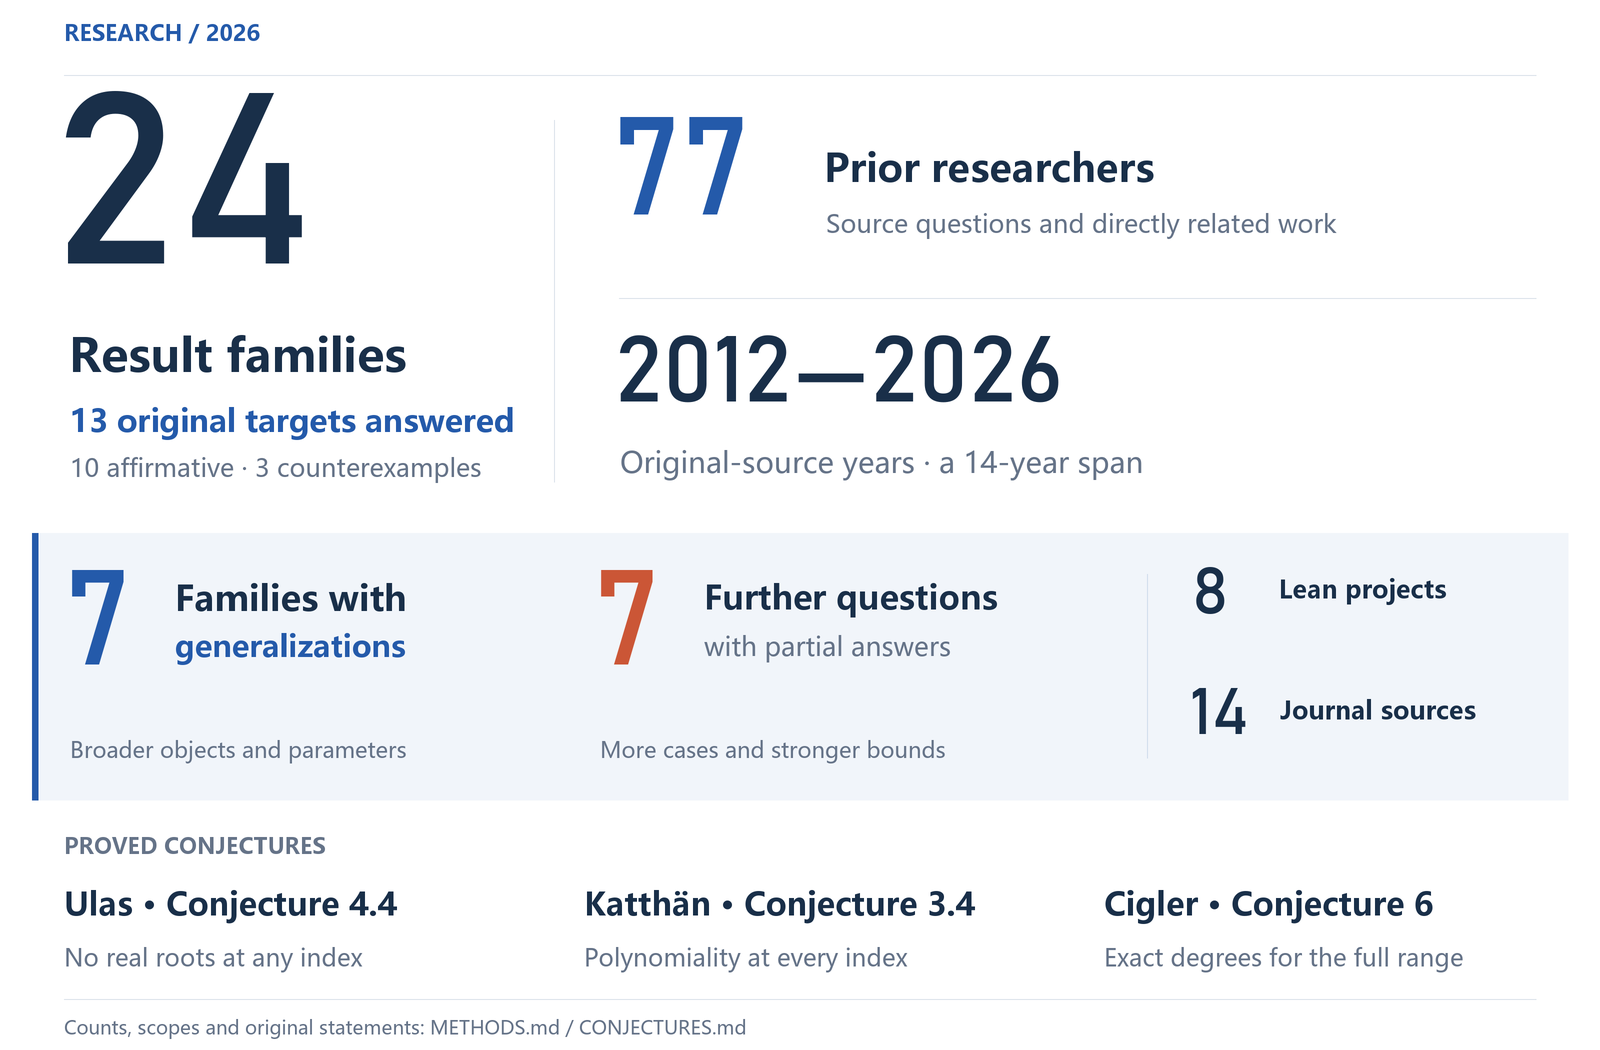
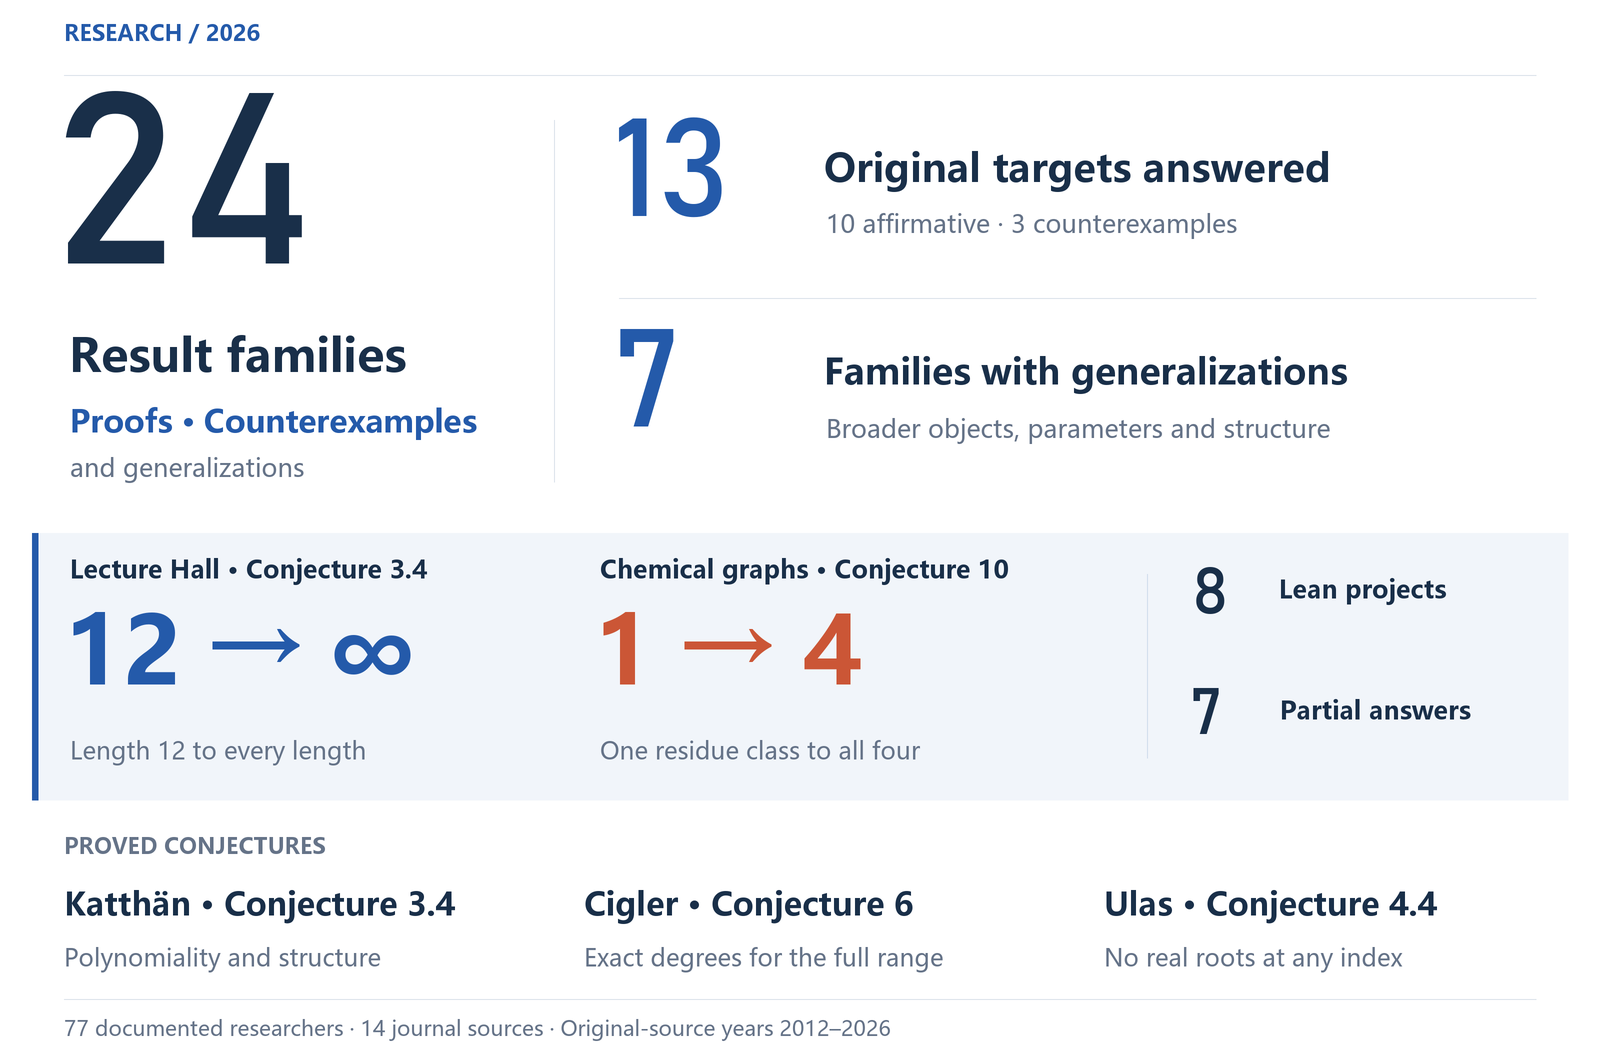
Lead the portfolio with general results and concrete contribution comparisons

diff --git a/README.md b/README.md
@@ -10,15 +10,27 @@
 
 ---
 
-我在AI辅助下，证明了**Ulas猜想4.4、Katthän猜想3.4、Cigler文中猜想6**等，并给出反例、分类和进一步的推广。现已按核心问题整理为**24个成果组**。
+我在AI辅助下，证明了**Katthän的Lecture Hall多项式性猜想（猜想3.4）、Cigler文中猜想6**等，并给出反例、分类和推广。现已整理为**24个成果组**。
 
-![24组数学成果；13项原题得到解答；7组推广成果；另7项原题获部分解答；8组含Lean形式化；14项原题发表于期刊；77位已列前人研究者；原题年代2012—2026。](assets/research-overview.zh.png)
+![24组数学成果；13项原题得到解答；7组推广成果；Lecture Hall从验证到长度12发展为任意长度的证明；化学图从一个模4余类覆盖全部四类；8组含Lean形式化；另7项原题获部分解答。研究背景：77位已列相关研究者、14项期刊原题、原题年代2012—2026。](assets/research-overview.zh.png)
 
 **涉及领域：** 极值图论 · 代数组合 · 交换代数 · 离散几何 · 实根多项式 · 枚举几何 · 渐近分析 · 形式化数学
 
 **方法与工具：** 行列式与生成函数 · SAGBI基与toric退化 · 根交错与正性 · 精确证书 · Lean 4 / mathlib · Python / SymPy · C++17
 
 [原论文中的猜想编号与本研究结论](CONJECTURES.md) · [77位研究者及其工作](PRIOR_RESEARCH.md) · [统计说明](METHODS.md)
+
+## 代表结果
+
+| 原题 | 已有研究 | 本研究的结果 |
+| --- | --- | --- |
+| **Lecture Hall · Katthän猜想3.4（2018）** | 原文计算验证到长度12 | **证明任意长度成立**；进一步得到系数公式和代数结构定理 |
+| **Catalan幂Hankel · Cigler文中猜想6（2023）** | 文献给出若干有限参数特例 | **覆盖两个参数的完整有效范围**，证明全部j≥1、k≥2j−1的指定余类精确次数公式 |
+| **K6链 · Furmańczyk等猜想2（2025）** | 原文提出统一22色上界 | **450顶点反例＋全家族23色锐界**；长链的精确答案为23 |
+| **Howroyd计数猜想（2018）** | 三个模3余类中的一个已有证明 | **补齐另外两个余类，并完整分类27集分支**；与已知结果合并覆盖三类 |
+| **化学图 · Knor等猜想10（2024）** | 后续论文覆盖一个模4余类 | **覆盖全部四类、所有n≥7**，同时证明每种极值分布都可实现 |
+| **Peak多项式 · Billey等猜想6.6** | 部分区间和系数性质已有结果 | **补齐剩余区间的符号论证**，完成指定的最后实根结论 |
+| **Fence · Elizalde等猜想5.4(b)** | 原题预测轨道平均值恒定 | **构造237步完整轨道，否定该条断言**；反例已由Lean内核核验 |
 
 ## 推广成果
 
@@ -31,17 +43,6 @@
 | [Hurwitz多项式](https://github.com/Aurantium-47/hurwitz-single-cycle-genera-two-three) | **从g=2扩展到g=3、4**，继续得到更一般情形的精细展开、根修正与定量界 |
 | [无限对数凹性](https://github.com/Aurantium-47/eventual-infinite-log-concavity) | **三项式→一般正系数多项式**：证明足够高次幂上的统一结论，并进一步细化参数增长情形 |
 | [Narayana格点和](https://github.com/Aurantium-47/narayana-polytope-counterexamples) | **两个反例→一般判据**：从否定实例进一步提炼出适用于更广对象的统一充分条件 |
-
-## 代表结果
-
-| 项目 | 已有研究 | 本研究的结果 |
-| --- | --- | --- |
-| **Howroyd · 2018年提出** | 三类余数情形中的一类已有证明 | **补齐另外两类，完成27集分支的完整分类**；与已知结果合并覆盖全部三类 |
-| **Katthän 猜想3.4 · 2018** | 原文计算验证到长度12 | **证明任意长度成立**，并继续发展出上述一组推广成果 |
-| **Knor等 · 猜想10** | 后续论文覆盖一个模4余类 | **覆盖全部四类、所有n≥7**，同时证明每种极值分布都可实现 |
-| **Billey等 · 猜想6.6** | 部分区间和系数性质已有结果 | **补齐剩余区间的符号论证**，完成指定的最后实根结论 |
-| **Fence · 猜想5.4(b)** | 原题预测轨道平均值恒定 | **构造237步完整轨道，否定原断言**；反例已由Lean内核核验 |
-| **K6链着色** | 原文提出统一22色上界 | **450顶点反例＋全家族23色锐界**，附1664万余条精确证书记录 |
 
 ## 论文出处
 
@@ -76,7 +77,7 @@
 | [Cigler猜想6 · Catalan幂Hankel次数](https://github.com/Aurantium-47/even-catalan-hankel-degrees) | 所有j≥1、k≥2j−1的两个指定余类，精确次数(2j−1)(k−j) | 证明与精确核查 |
 | [数值半群端点残差](https://github.com/Aurantium-47/numerical-semigroup-endpoint-residues) | 平移族最终仿射；显式斜率、修正项与有效阈值 | 证明与精确核查 |
 | [Billey等猜想6.6 · Peak最后实根](https://github.com/Aurantium-47/peak-polynomial-last-real-root) | 对任意可容许峰集，完成倒数第二峰之后整个实区间的符号与最后实根结论 | 证明与精确核查 |
-| [Karp二阶变换实根性](https://github.com/Aurantium-47/karp-order-two-real-rootedness) | 正、满支撑的二阶Pochhammer变换负实根性及残余根间距 | 已有相关公开证明；贡献对照中 |
+| [Karp二阶变换实根性](https://github.com/Aurantium-47/karp-order-two-real-rootedness) | 正、满支撑的二阶Pochhammer变换负实根性及残余根间距 | 不同证明路线；与先行成果的比较见专页 |
 | [Gap-five Gaussian商正性](https://github.com/Aurantium-47/gap-five-gaussian-quotients) | gap=5、k≥8、n≥2k：多项式性蕴含系数非负；与已知边界合并覆盖k≥5 | 证明与符号证书 |
 | [Hurwitz多项式与大亏格展开](https://github.com/Aurantium-47/hurwitz-single-cycle-genera-two-three) | g=2、3、4单周期全次数实根/交错；一般profile有效大亏格精细项 | 证明与精确核查 |
 | [最终无限对数凹性](https://github.com/Aurantium-47/eventual-infinite-log-concavity) | 固定严格正满支撑多项式的充分大整数幂无限对数凹；三项式与增长深度细化 | 证明与精确证书 |

diff --git a/README.en.md b/README.en.md
@@ -10,15 +10,27 @@
 
 ---
 
-With AI assistance, I have proved **Ulas’s Conjecture 4.4, Katthän’s Conjecture 3.4 and Conjecture 6 in Cigler’s paper**, alongside counterexamples, classifications and generalizations. The work is organized into **24 result families**.
+With AI assistance, I have proved **Katthän’s Lecture Hall polynomiality conjecture (Conjecture 3.4) and Conjecture 6 in Cigler’s paper**, alongside counterexamples, classifications and generalizations. The work is organized into **24 result families**.
 
-![24 result families; 13 original targets answered; 7 families with generalizations; 7 further questions with partial answers; 8 Lean projects; 14 journal sources; 77 documented prior researchers; original-source years 2012–2026.](assets/research-overview.en.png)
+![24 result families; 13 original targets answered; 7 families with generalizations; Lecture Hall: length 12 to every length; chemical graphs: one residue class to all four; 8 Lean projects; 7 further questions with partial answers. Background: 77 documented researchers, 14 journal sources, original-source years 2012–2026.](assets/research-overview.en.png)
 
 **Research areas:** extremal graph theory · algebraic combinatorics · commutative algebra · discrete geometry · real-rooted polynomials · enumerative geometry · asymptotic analysis · formalized mathematics
 
 **Methods and tools:** determinants and generating functions · SAGBI bases and toric degeneration · root interlacing and positivity · exact certificates · Lean 4 / mathlib · Python / SymPy · C++17
 
 [Original conjecture numbers and results](CONJECTURES.md) · [The 77 researchers and their work](PRIOR_RESEARCH.md) · [Statistical definitions](METHODS.md)
+
+## Selected results
+
+| Original target | Previous work | Result presented here |
+| --- | --- | --- |
+| **Lecture Hall · Katthän’s Conjecture 3.4 (2018)** | Computations through length 12 | **Polynomiality at every index**, followed by coefficient formulas and algebraic-structure theorems |
+| **Catalan-power Hankel determinants · Conjecture 6 in Cigler (2023)** | Several finite parameter specializations were known | **Exact degrees throughout the full stated two-parameter range**, for j≥1 and k≥2j−1 at the specified offsets |
+| **K6 clique chains · Conjecture 2 of Furmańczyk et al. (2025)** | A proposed uniform 22-colour bound | **A 450-vertex counterexample and sharp bound 23**, with equality for long chains |
+| **Howroyd’s counting conjecture (2018)** | One of three classes modulo three was settled | **The other two classes and a full classification of the 27-set branches** |
+| **Chemical graphs · Conjecture 10 of Knor et al. (2024)** | Later work covered one class modulo four | **All four classes for every n≥7**, with realizability |
+| **Peak polynomials · Conjecture 6.6 of Billey et al.** | Partial interval and coefficient results | **The remaining sign interval** for the specified last-real-root conclusion |
+| **Fence rowmotion · Conjecture 5.4(b) of Elizalde et al.** | A conjectured invariant orbit average | **A 237-step counterexample orbit**, kernel-checked in Lean |
 
 ## Extensions
 
@@ -31,17 +43,6 @@ With AI assistance, I have proved **Ulas’s Conjecture 4.4, Katthän’s Conjec
 | [Hurwitz polynomials](https://github.com/Aurantium-47/hurwitz-single-cycle-genera-two-three) | **Genus two to genera three and four**, followed by refined asymptotic expansions, root corrections and effective bounds |
 | [Infinite log-concavity](https://github.com/Aurantium-47/eventual-infinite-log-concavity) | **Trinomials to general strictly positive polynomials:** a sufficiently-high-power theorem and growing-depth refinements |
 | [Narayana lattice sums](https://github.com/Aurantium-47/narayana-polytope-counterexamples) | **Two counterexamples to a general criterion:** a sufficient condition covering a broader class of objects |
-
-## Selected results
-
-| Project | Previous work | Result presented here |
-| --- | --- | --- |
-| Howroyd, posed in 2018 | One residue class was settled | **The remaining two classes**, an explicit 27-set classification and a Lean proof |
-| Lecture Hall, posed in 2018 | Computations through length 12 | **Polynomiality at every index**, followed by further structural theorems |
-| Chemical graphs | Later work covered one class modulo four | **All four classes for every n ≥ 7**, with realizability and Lean formalization |
-| Peak polynomials | Partial interval and coefficient results | **The remaining sign interval** for the specified last-real-root conclusion |
-| Fence rowmotion | A conjectured invariant orbit average | **A 237-step counterexample orbit**, kernel-checked in Lean |
-| K6 clique chains | A proposed uniform 22-colour bound | **A 450-vertex counterexample and sharp bound 23**, with an exact rank certificate |
 
 ## Sources and artifacts
 
@@ -69,7 +70,7 @@ The [Lean collection](formalizations/README.md) contains 189 source files from e
 | [even-catalan-hankel-degrees](https://github.com/Aurantium-47/even-catalan-hankel-degrees) | Written proof / exact verification |
 | [numerical-semigroup-endpoint-residues](https://github.com/Aurantium-47/numerical-semigroup-endpoint-residues) | Written proof / exact verification |
 | [peak-polynomial-last-real-root](https://github.com/Aurantium-47/peak-polynomial-last-real-root) | Written proof / exact verification |
-| [karp-order-two-real-rootedness](https://github.com/Aurantium-47/karp-order-two-real-rootedness) | Literature comparison in progress |
+| [karp-order-two-real-rootedness](https://github.com/Aurantium-47/karp-order-two-real-rootedness) | Alternative proof route; comparison with the earlier submission documented |
 | [gap-five-gaussian-quotients](https://github.com/Aurantium-47/gap-five-gaussian-quotients) | Written proof / exact verification |
 | [hurwitz-single-cycle-genera-two-three](https://github.com/Aurantium-47/hurwitz-single-cycle-genera-two-three) | Written proof / exact verification |
 | [eventual-infinite-log-concavity](https://github.com/Aurantium-47/eventual-infinite-log-concavity) | Written proof / exact verification |

diff --git a/CONJECTURES.md b/CONJECTURES.md
@@ -4,9 +4,9 @@
 
 | 原文中的猜想 | 本研究给出的结果 | 原文与证明 |
 | --- | --- | --- |
-| **Ulas 猜想 4.4** | 证明指定Stern多项式族对所有自然数下标、所有实数变量严格为正，从而没有实根 | [Ulas原文，第16页](https://arxiv.org/pdf/1909.10844v1#page=16) · [证明与Lean源码](https://github.com/Aurantium-47/stern-polynomial-positivity) |
 | **Katthän 猜想 3.4** | 证明每个Lecture Hall递归有理函数都是多项式，覆盖任意长度；原文计算验证到12 | [Katthän原文，第4—5页](https://arxiv.org/pdf/1809.01377#page=4) · [证明与推广](https://github.com/Aurantium-47/lecture-hall-polynomiality) |
 | **Cigler文中猜想 6** | 对原文指定的两个余类，证明所有j≥1、k≥2j−1的精确次数公式；从有限特例推广到整个参数范围 | [Cigler原文，第4页，式(19)](https://arxiv.org/pdf/2308.07642v2#page=4) · [完整证明](https://github.com/Aurantium-47/even-catalan-hankel-degrees) |
+| **Ulas 猜想 4.4** | 证明指定Stern多项式族对所有自然数下标、所有实数变量严格为正，从而没有实根 | [Ulas原文，第16页](https://arxiv.org/pdf/1909.10844v1#page=16) · [证明与Lean源码](https://github.com/Aurantium-47/stern-polynomial-positivity) |
 | **Billey–Fahrbach–Talmage 猜想 6.6** | 证明指定最后实根结论，补齐剩余非整数区间的符号论证 | [原文，第19页](https://arxiv.org/pdf/1410.8506#page=19) · [证明及前人成果对照](https://github.com/Aurantium-47/peak-polynomial-last-real-root) |
 
 Cigler在猜想6的标题中注明其与Wang–Xin猜想10的关系。本研究采用Cigler式(19)明确写出的参数范围，保留这一来源归属。

diff --git a/METHODS.md b/METHODS.md
@@ -43,3 +43,9 @@ Howroyd后续工作为LAGOS 2021会议论文集论文；Hardinian矩形数组相
 ## 原文编号与展示
 
 代表猜想的编号、采用版本、命题范围及证明入口见[代表猜想与原文编号](CONJECTURES.md)。首屏用同一组数据生成中英文统计图；13项原题解答包括10项肯定结论与3项以反例为主要结果的项目，不把它们全部改称“13项猜想的证明”。图中的77位为原题及直接相关研究已列作者的去重人数。年代统计包括Karp同题研究，不用来声称本系列首次解决了一个连续未决14年的猜想。
+
+## 代表结果的编排
+
+首页先列原题解答、推广成果与具体的证明范围对照；文献年代、刊物出处和前人研究人数作为研究背景。代表结果按解答范围、推广内容和可明确对照的前人成果选排，不按作者姓氏、猜想编号、文献年份或先后发布的时间间隔评定数学重要性。
+
+“12 → ∞”指Katthän原文对Lecture Hall猜想3.4验证到长度12，本项目给出任意长度的证明，不是有限检验的外推。“1 → 4”指化学图猜想10从相关文献覆盖一个模4余类，扩展为本项目全部四个余类的结论；不是四倍难度或四倍影响力。K6链则是反驳猜测的22色统一上界，并证明正确的23色统一锐界。这些对照都保留其具体数学对象和参数范围。
